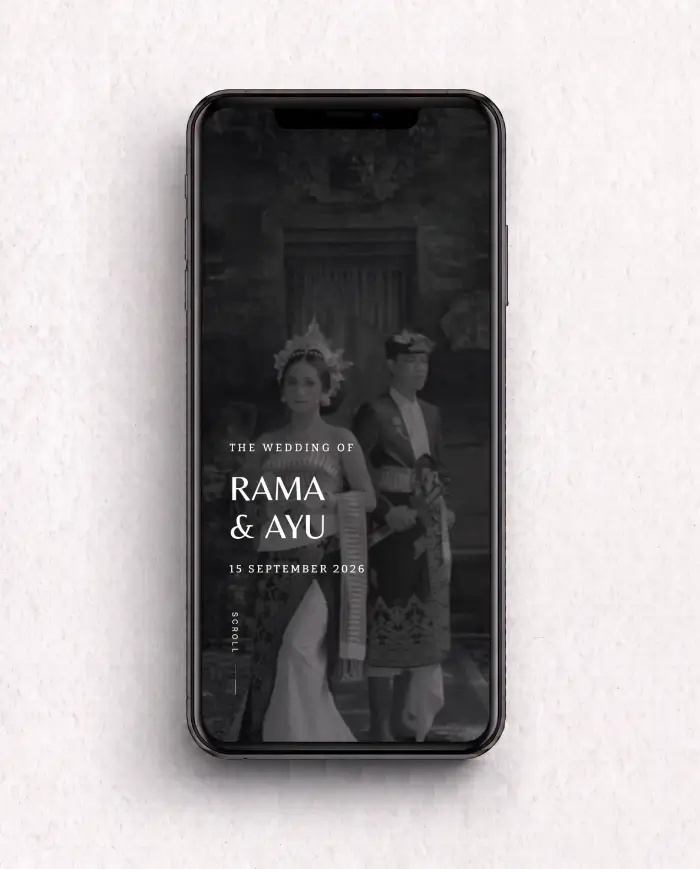
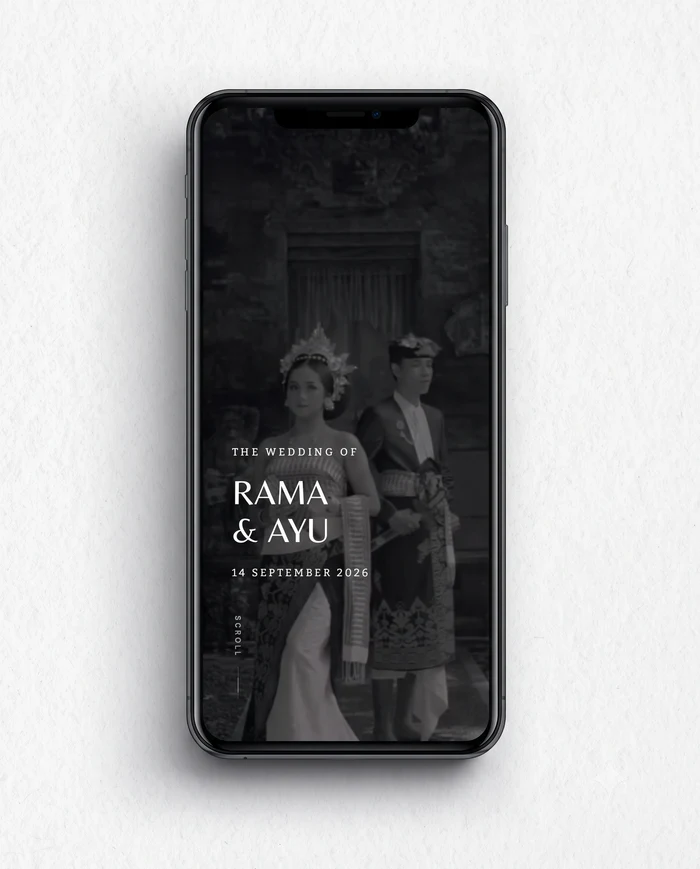
feat(analytics, deauville): restrict tracking to production and refine Deauville gallery & responsive UI
- Centralize isLiveTrackingEnvironment helper to disable GA, view counting, and event tracking on local/dev hosts
- Prevent accidental Fancybox click triggers during slider touch swipes in Deauville template
- Pause gallery slider autoplay via IntersectionObserver when off-screen
- Simplify Deauville gallery grid and expand event card, RSVP form, and wishes list widths to 100%
- Refine hero motion parallax scroll speed and mobile seal animation sizing on homepage
- Optimize Lumiere cover asset

diff --git a/src/templates/deauville/script.js b/src/templates/deauville/script.js
@@ -262,11 +262,24 @@ function initGallerySliders() {
     // Passive touch swipe detection without hijacking scrolling
     let startX = 0;
     let startY = 0;
+    let isSwiping = false;
+
     slider.addEventListener('touchstart', (e) => {
       if (e.touches.length === 1) {
         startX = e.touches[0].screenX;
         startY = e.touches[0].screenY;
+        isSwiping = false;
         stopTimer();
+      }
+    }, { passive: true });
+
+    slider.addEventListener('touchmove', (e) => {
+      if (e.touches.length === 1) {
+        const diffX = e.touches[0].screenX - startX;
+        const diffY = e.touches[0].screenY - startY;
+        if (Math.abs(diffX) > 15 && Math.abs(diffX) > Math.abs(diffY)) {
+          isSwiping = true;
+        }
       }
     }, { passive: true });
 
@@ -281,12 +294,38 @@ function initGallerySliders() {
             prev();
           }
         }
+        if (isSwiping) {
+          setTimeout(() => {
+            isSwiping = false;
+          }, 350);
+        }
         startTimer();
       }
     }, { passive: true });
 
+    slider.addEventListener('click', (e) => {
+      if (isSwiping) {
+        e.preventDefault();
+        e.stopPropagation();
+      }
+    }, true);
+
     update();
-    startTimer();
+
+    if ('IntersectionObserver' in window) {
+      const io = new IntersectionObserver((entries) => {
+        entries.forEach((entry) => {
+          if (entry.isIntersecting) {
+            startTimer();
+          } else {
+            stopTimer();
+          }
+        });
+      }, { threshold: 0.15 });
+      io.observe(slider);
+    } else {
+      startTimer();
+    }
   });
 }
 

diff --git a/src/templates/deauville/style.scss b/src/templates/deauville/style.scss
@@ -836,7 +836,7 @@ body.template-deauville {
     display: grid;
     justify-items: center;
     gap: 16px;
-    width: min(100%, 370px);
+    width: 100%;
     padding: 26px 22px;
     border: 1px solid var(--dea-line);
     background: rgba(20, 20, 20, 0.48);
@@ -990,7 +990,8 @@ body.template-deauville {
     }
   }
 
-  .gallery-video-full:hover .gallery-item__play {
+  .gallery-video-full:hover .gallery-item__play,
+  .gallery-slider__slide:hover .gallery-item__play {
     background: rgba(0, 0, 0, 0.44);
   }
 
@@ -1015,7 +1016,8 @@ body.template-deauville {
       overflow: hidden;
       display: block;
 
-      img {
+      img,
+      video {
         display: block;
         width: 100%;
         height: 100%;
@@ -1024,7 +1026,8 @@ body.template-deauville {
         transition: transform 0.4s ease;
       }
 
-      &:hover img {
+      &:hover img,
+      &:hover video {
         transform: scale(1.03);
       }
     }
@@ -1333,7 +1336,7 @@ body.template-deauville {
   .rsvp-form {
     display: grid;
     gap: 6px;
-    width: min(100%, 370px);
+    width: 100%;
     margin: 0 auto;
   }
 
@@ -1378,7 +1381,7 @@ body.template-deauville {
     display: grid;
     justify-items: center;
     gap: 8px;
-    width: min(100%, 370px);
+    width: 100%;
     margin: 0 auto 20px;
     padding: 24px 20px;
     border: 1px solid rgba(248, 245, 239, 0.22);
@@ -1426,7 +1429,7 @@ body.template-deauville {
     display: flex;
     flex-direction: column;
     gap: 0;
-    width: min(100%, 370px);
+    width: 100%;
     margin: 0 auto;
     border: 1px solid rgba(248, 245, 239, 0.16);
     background: rgba(0, 0, 0, 0.24);

diff --git a/src/utils/analytics.ts b/src/utils/analytics.ts
@@ -164,3 +164,48 @@ export function extractClientContext(request: Request) {
     referrer: referrer ? referrer.slice(0, 500) : null
   };
 }
+
+/**
+ * Checks if a hostname belongs to a local or development environment.
+ */
+export function isLocalHost(hostname?: string | null): boolean {
+  if (!hostname) return false;
+  const h = hostname.toLowerCase().trim().replace(/:\d+$/, '').replace(/^\[|\]$/g, '');
+  return (
+    h === 'localhost' ||
+    h === '127.0.0.1' ||
+    h === '0.0.0.0' ||
+    h === '::1' ||
+    h.endsWith('.test') ||
+    h.endsWith('.local') ||
+    h.endsWith('.internal') ||
+    /^192\.168\./.test(h) ||
+    /^10\./.test(h) ||
+    /^172\.(1[6-9]|2[0-9]|3[0-1])\./.test(h)
+  );
+}
+
+/**
+ * Determines whether analytics and guest activity tracking should be recorded.
+ * Only records on live production environments (unless forced via PUBLIC_FORCE_ANALYTICS=true).
+ */
+export function isLiveTrackingEnvironment(hostname?: string | null): boolean {
+  if (typeof import.meta !== 'undefined' && import.meta.env?.PUBLIC_FORCE_ANALYTICS === 'true') {
+    return true;
+  }
+  if (typeof import.meta !== 'undefined' && Boolean(import.meta.env?.DEV)) {
+    return false;
+  }
+
+  const host = (
+    hostname ||
+    (typeof window !== 'undefined' ? window.location.hostname : '')
+  ).toLowerCase().trim().replace(/:\d+$/, '').replace(/^\[|\]$/g, '');
+
+  if (!host) {
+    return typeof import.meta !== 'undefined' ? Boolean(import.meta.env?.PROD) : false;
+  }
+
+  return !isLocalHost(host);
+}
+

diff --git a/src/services/view-tracking.ts b/src/services/view-tracking.ts
@@ -2,6 +2,7 @@ import { supabase } from '../lib/supabase';
 import { getSupabaseAdmin } from '../lib/supabase-admin';
 import type { InvitationSettings, WeddingStatus } from '../types';
 import { hashPasswordSHA256 } from '../utils/security';
+import { isLiveTrackingEnvironment } from '../utils/analytics';
 
 interface TrackInvitationViewInput {
   weddingId: string;
@@ -21,14 +22,21 @@ export function shouldTrackInvitationView(
   settings: InvitationSettings,
   status: WeddingStatus,
   isMaintenance: boolean,
-  isPasswordLocked: boolean
+  isPasswordLocked: boolean,
+  urlOrHostname?: URL | string
 ): boolean {
-  const isDev = Boolean(typeof import.meta !== 'undefined' && import.meta.env?.DEV);
+  const isLive = isLiveTrackingEnvironment(
+    typeof urlOrHostname === 'string'
+      ? urlOrHostname
+      : urlOrHostname?.hostname
+  );
+
   return (
-    (settings.view_counter_enabled || isDev) &&
+    isLive &&
+    Boolean(settings.view_counter_enabled) &&
     !isMaintenance &&
     !isPasswordLocked &&
-    (status === 'published' || isDev)
+    status === 'published'
   );
 }
 
@@ -46,6 +54,9 @@ export async function trackInvitationView({
   now = new Date()
 }: TrackInvitationViewInput): Promise<void> {
   try {
+    if (!isLiveTrackingEnvironment()) {
+      return;
+    }
     const todayStr = now.toISOString().slice(0, 10);
     const guestKey = (guestName || '').trim().toLowerCase();
     const ipHash = await hashPasswordSHA256(`${clientIp}_${guestKey || 'public'}_${weddingId}_${todayStr}`);

diff --git a/src/scripts/analytics.ts b/src/scripts/analytics.ts
@@ -1,3 +1,5 @@
+import { isLiveTrackingEnvironment } from '../utils/analytics';
+
 export type EventType =
   | 'open_cover'
   | 'click_maps'
@@ -24,6 +26,7 @@ const recentEventCache = new Map<string, number>();
 
 export function sendAnalyticsEvent(eventType: EventType, options: TrackEventOptions = {}) {
   if (typeof window === 'undefined' || typeof document === 'undefined') return;
+  if (!isLiveTrackingEnvironment(window.location.hostname)) return;
 
   const weddingId = options.weddingId || document.body.dataset.weddingId || '';
   if (!weddingId || weddingId.startsWith('preview-')) return;
@@ -80,6 +83,7 @@ let trackingInitialized = false;
 
 export function initAutomaticInteractionTracking() {
   if (typeof window === 'undefined' || typeof document === 'undefined') return;
+  if (!isLiveTrackingEnvironment(window.location.hostname)) return;
   if (trackingInitialized) return;
   trackingInitialized = true;
 

diff --git a/src/pages/api/analytics/track.ts b/src/pages/api/analytics/track.ts
@@ -2,6 +2,7 @@ import type { APIRoute } from 'astro';
 import { supabase } from '../../../lib/supabase';
 import { getSupabaseAdmin } from '../../../lib/supabase-admin';
 import { jsonResponse } from '../../../utils/http';
+import { isLiveTrackingEnvironment } from '../../../utils/analytics';
 
 export const prerender = false;
 
@@ -22,8 +23,11 @@ const ALLOWED_EVENTS = new Set([
   'click_vendor_site'
 ]);
 
-export const POST: APIRoute = async ({ request }) => {
+export const POST: APIRoute = async ({ request, url }) => {
   try {
+    if (!isLiveTrackingEnvironment(url.hostname)) {
+      return jsonResponse({ success: true, ignored: 'local_environment' });
+    }
     let payload: any = null;
     try {
       payload = await request.json();

diff --git a/src/services/invitation-runtime.ts b/src/services/invitation-runtime.ts
@@ -1,15 +1,11 @@
 import type { InvitationSettings } from '../types';
 import { hashPasswordSHA256 } from '../utils/security';
+import { isLocalHost } from '../utils/analytics';
 
 export function resolveInvitationIdentifier(url: URL, slug?: string) {
   const host = url.host;
   const hostname = url.hostname;
-  const isLocal =
-    host.includes('localhost') ||
-    host.includes('127.0.0.1') ||
-    host.includes('.internal') ||
-    hostname.startsWith('192.168.') ||
-    hostname.startsWith('10.');
+  const isLocal = isLocalHost(hostname);
   const isCloudflarePreview =
     host.endsWith('.pages.dev') ||
     host.endsWith('.workers.dev');
